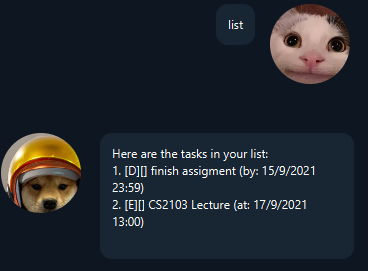
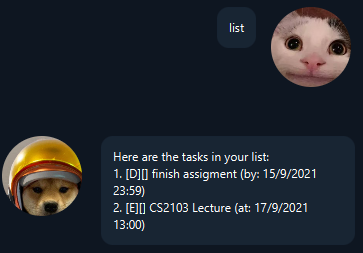
Remove extra newline at the end of some strings

diff --git a/src/main/java/duke/ui/Ui.java b/src/main/java/duke/ui/Ui.java
@@ -36,6 +36,6 @@ public class Ui {
         for (int i = 0; i < taskList.getAllTasks().size(); i++) {
             output.append(String.format("%d. %s%n", i + 1, taskList.getAllTasks().get(i)));
         }
-        return output.toString();
+        return output.toString().trim();
     }
 }

diff --git a/src/main/java/duke/command/FindCommand.java b/src/main/java/duke/command/FindCommand.java
@@ -25,6 +25,6 @@ public class FindCommand extends Command {
                 output.append(ui.returnMessage(String.format("%d.%s%n", index++, task)));
             }
         }
-        return output.toString();
+        return output.toString().trim();
     }
 }
